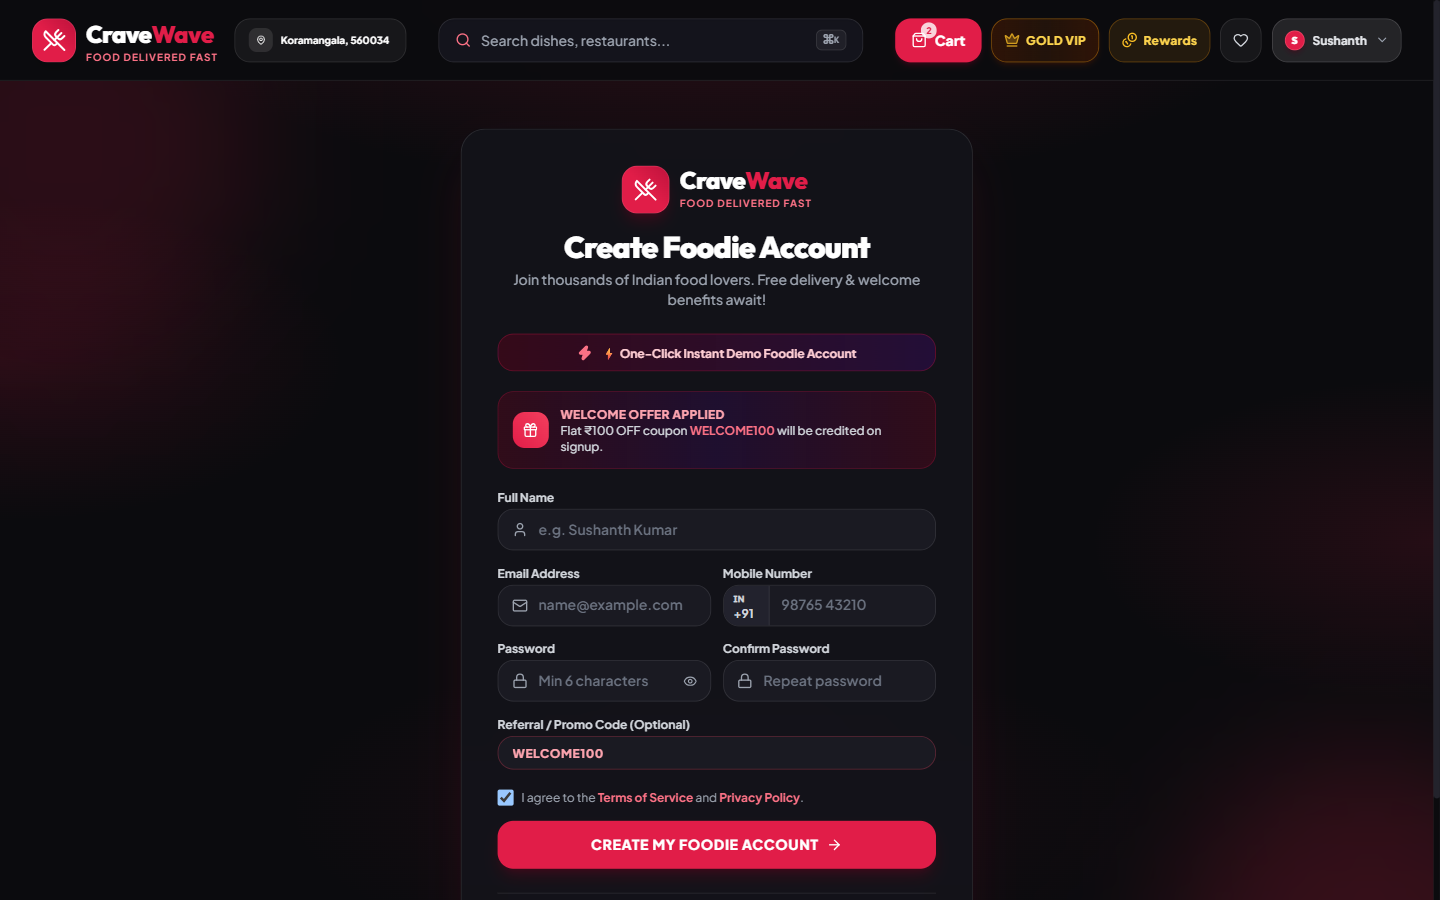
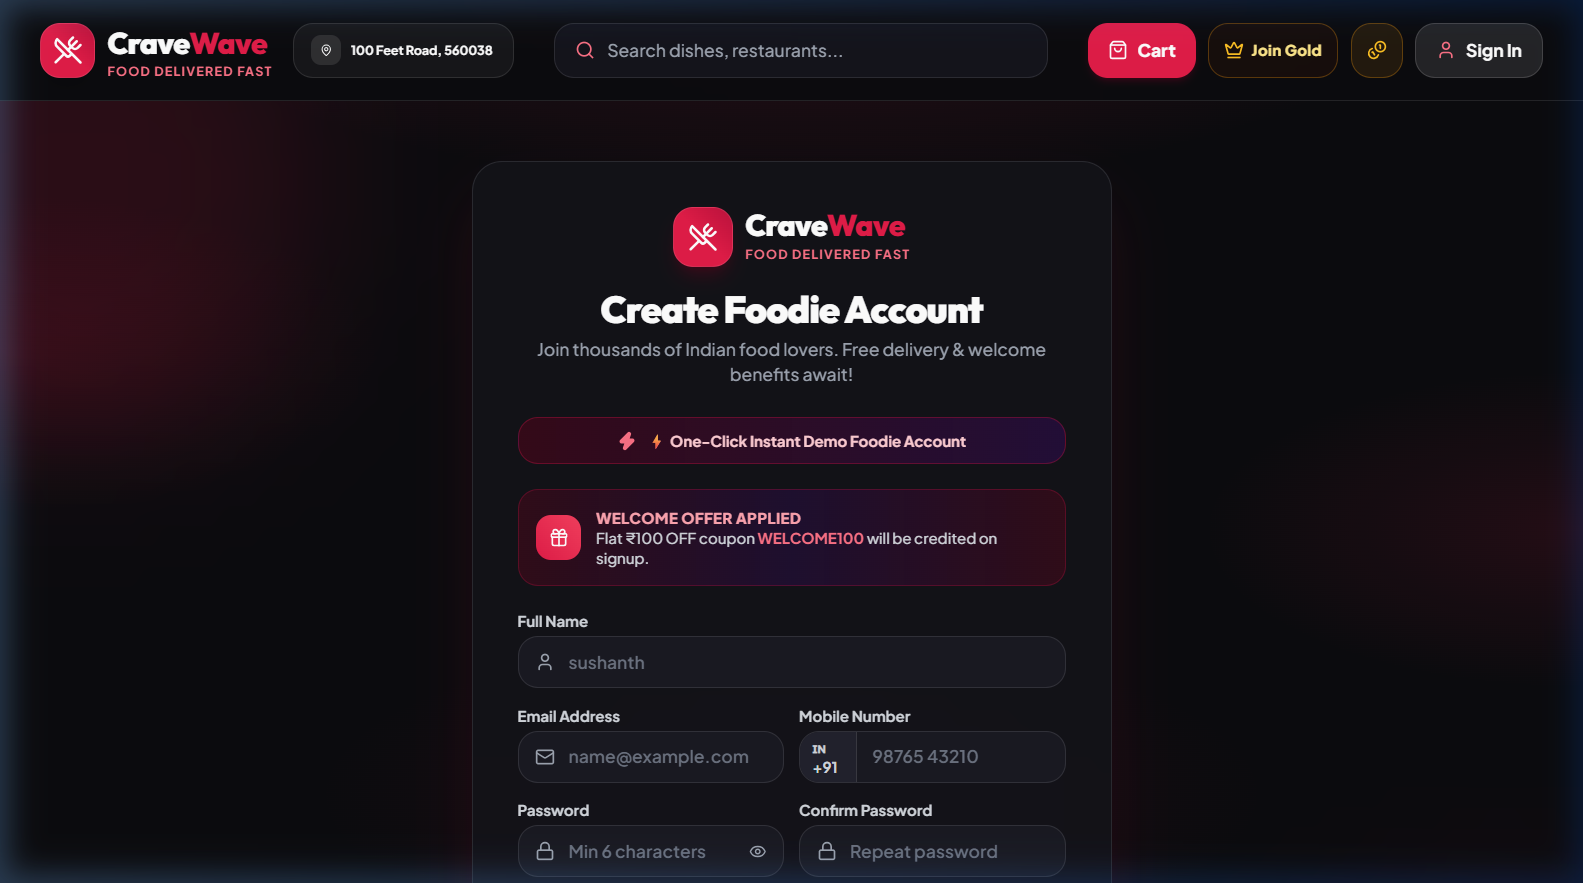
docs: update README with brief project explanation and comprehensive desktop, tablet, and mobile screenshots

Changed region(s): [[0.0, 0.0, 1.0, 1.0], [0.3125, 0.1835, 0.6875, 0.7644]]

diff --git a/README.md b/README.md
@@ -1,168 +1,221 @@
-# CraveWave — Modern Food Delivery & Live Tracking Platform
+# 🍕 CraveWave — Modern Food Delivery & Live Tracking Platform
 
-An elegant, responsive, and feature-complete food delivery single-page application built with **React**, **Vite**, **Tailwind CSS**, **React Router**, and **Framer Motion**.
+[![React](https://img.shields.io/badge/React-19.2.8-61DAFB?logo=react&logoColor=black)](https://react.dev/)
+[![Vite](https://img.shields.io/badge/Vite-8.3.4-646CFF?logo=vite&logoColor=white)](https://vitejs.dev/)
+[![Tailwind CSS](https://img.shields.io/badge/Tailwind_CSS-3.4.19-38B2AC?logo=tailwind-css&logoColor=white)](https://tailwindcss.com/)
+[![React Router](https://img.shields.io/badge/React_Router-7.18.4-CA4245?logo=react-router&logoColor=white)](https://reactrouter.com/)
+[![License: MIT](https://img.shields.io/badge/License-MIT-yellow.svg)](https://opensource.org/licenses/MIT)
+
+> **CraveWave** is a full-featured, luxury-themed food delivery single-page application built for high performance, visual elegance, and fluid responsiveness across **Desktop**, **Tablet**, and **Mobile** devices. It simulates an authentic end-to-end food delivery journey—from smart GPS location detection and multi-cuisine restaurant discovery to interactive item customization, collaborative group ordering, instant coupon discounts, simulated payment gateways, and real-time 5-stage live delivery tracking.
 
 ---
 
-## 🌟 Key Features
+## 📖 Table of Contents
+- [Project Overview](#-project-overview)
+- [Key Features](#-key-features)
+- [Responsive Screen Previews](#-responsive-screen-previews)
+  - [🖥 Desktop Version](#-desktop-version-1280px)
+  - [📱 Tablet Version](#-tablet-version-768px---1024px)
+  - [📲 Mobile Version](#-mobile-version-390px---phone)
+- [Technology Stack](#-technology-stack)
+- [Project Architecture](#-project-architecture)
+- [Getting Started](#-getting-started)
+- [Multi-Device Verification](#-multi-device-verification)
+- [License](#-license)
 
-### 1. Smart Location System (Auto GPS & Manual Entry)
-- **Automatic GPS Location Detection**: One-click detection using the HTML5 Geolocation API with reverse geocoding to automatically identify the user's locality, city, state, and PIN code.
-- **Manual Search & Location Picker**:
-  - Instant search across major Indian tech hubs and residential areas (Bengaluru, Delhi NCR, Mumbai, Hyderabad, Chennai, Kolkata, Pune).
-  - Quick-select popular city chips and localities (Koramangala, Indiranagar, Connaught Place, Bandra West, Cyber City, etc.).
-  - **Custom Address Builder**: Enter specific Flat/Building number, street, area, city, and 6-digit PIN code.
-  - One-click auto-fill during checkout.
+---
 
-### 2. Home & Restaurant Discovery
+## 🌟 Project Overview
 
-### 2. Restaurant Details & Menu Customization
-- **Immersive Restaurant Header**: Ambient backdrop cover, verified review badges, operational status, and delivery details.
-- **Categorized Menu Navigation**: Sticky category sub-navigation with dish counts.
-- **Dietary Indicators**: Standardized Vegetarian and Non-Vegetarian badges.
-- **Item Customization Modal (Item Builder)**:
-  - Portion size selection (Regular, Double, Large) with real-time price delta calculations.
-  - Add-on toppings & extra sides checkboxes with individual price tags.
-  - Spice level preferences (Mild, Medium, Hot).
-  - Special kitchen requests/instructions textarea.
+CraveWave was crafted to deliver an extraordinary, responsive user experience modeled after top global food delivery platforms (such as Swiggy, Zomato, and DoorDash) combined with a dark luxury aesthetic.
 
-### 3. Cart & Coupon System
-- **Dual Cart Modes**:
-  - **Slide-Over Quick Cart Drawer**: Opens automatically upon adding items or via the persistent navigation bag button.
-  - **Dedicated Cart Page (`/cart`)**: Complete order review with item breakdown, customization badges, and quantity adjusters.
-- **Multi-Restaurant Conflict Protection**: Prevents accidental mixing of items from different restaurants with an alert modal.
-- **Promotional Coupon Engine**:
-  - Input promo code or select from recommended chips (`WELCOME50`, `TASTY20`, `FREEDEL`, `FEAST15`).
-  - Validation rules including minimum order values, percentage caps, flat discounts, and delivery fee waivers.
-- **Transparent Bill Calculation**: Item subtotal, discounts, dynamic delivery fee ($3.49 or FREE for orders over $35/with coupon), platform fee ($1.49), and 8% taxes.
+### Core Highlights:
+- **605+ Curated Dishes & Restaurants**: Handcrafted menu database covering authentic Indian, Italian, Pan-Asian, Continental, Fast Food, Mithai, and Street Food.
+- **Precision Item Customization**: Configure portion sizes, add-on toppings, spice levels (Mild Nawabi, Medium, Fiery Andhra), and kitchen instructions with live price recalculation.
+- **Intelligent Location System**: Automatic HTML5 Geolocation detection + reverse geocoding, plus instant manual search covering major Indian hubs (Bengaluru, Mumbai, Delhi NCR, Hyderabad, Chennai, Kolkata, Pune).
+- **Gamified Rewards & VIP Club**: CraveCoins rewards wallet, interactive Craving Wheel (Spin & Win), scratch cards with confetti animations, and Gold VIP free delivery membership.
+- **Collaborative Group & Gift Ordering**: Group room codes for itemized/split billing with friends, plus surprise digital gift order greetings.
+- **Interactive Live 5-Step Order Tracker**: Animated delivery stages, simulated GPS night-mode delivery map, live scooter movement, driver contact modal, and delivery chat drawer.
 
-### 4. Checkout & Form Validation
-- **Contact & Address Form**: Real-time validation for Full Name, Phone number format, Street Address, City, and ZIP code.
-- **Payment Method Selectors**:
-  - Credit / Debit Cards (with card details inputs).
-  - Instant UPI Apps (GPay, PhonePe, Paytm with VPA validation).
-  - Cash on Delivery (COD).
-  - Net Banking.
-- **Celebratory Transition**: Canvas confetti celebration on successful placement.
+---
 
-### 5. Live Order Tracking & Simulation
-- **Animated 5-Stage Delivery Timeline**:
-  1. *Order Confirmed*
-  2. *Kitchen Preparing Food*
-  3. *Delivery Partner Assigned*
-  4. *Out for Delivery (On the Way)*
-  5. *Delivered*
-- **Interactive Step Simulator**: Built-in test controls allowing testers to advance delivery steps (`Next Step >>`) or reset to Step 1.
-- **Simulated GPS Delivery Map**: Night mode map canvas with pulsing satellite tracking and animated scooter movement.
-- **Delivery Driver Profile**: Driver photo avatar, verified star rating, completed trip counts, vehicle registration, and direct call action.
+## 🚀 Key Features
 
-### 6. Order History & Instant Re-Ordering
-- **Local Storage Persistence**: Active orders and cart state persist seamlessly across page refreshes.
-- **1-Click Re-order**: Instant recreation of previous meals directly back into the cart.
+| Category | Highlights |
+| :--- | :--- |
+| **📍 Location System** | GPS auto-detection, reverse geocoding, popular city/tech-hub chips, and custom apartment/street address builder. |
+| **🔍 Search & Filtering** | Global Omnisearch (`⌘K` / `Ctrl+K`), live dish/cuisine search, pure vegetarian filter, bestsellers filter, rating & price sorting. |
+| **🍔 Menu & Item Builder** | Dynamic portion sizing, add-on toppings with incremental pricing, spice level selectors, and dietary badges (Veg/Non-Veg). |
+| **🛒 Cart & Promo Engine** | Slide-over cart drawer, dedicated cart page, multi-restaurant conflict alerts, promo coupon validation (`WELCOME100`, `CRAVE50`, `FREEDEL`), CraveCoins discounts, no-cutlery & EV fleet eco-options. |
+| **💳 Checkout & Payments** | Contact and address forms, UPI ID verification (GPay/PhonePe/Paytm), Card payments, Net Banking, and Cash on Delivery (COD). |
+| **🛵 Live Order Tracking** | 5-stage animated progress timeline, simulated real-time map with moving delivery partner, test step controller (`Next Step >>`), driver call, and live customer support chat. |
+| **📜 Order History & Re-order** | Persistent order archives, detailed itemized receipts, download/view summary, and instant 1-click re-ordering back into the cart. |
+| **👤 User Authentication** | Clean email/password sign-in and sign-up with personalized placeholder defaults, custom user avatar color themes, and address book management. |
+
+---
+
+## 📸 Responsive Screen Previews
+
+Below are visual captures of all versions across **Desktop**, **Tablet**, and **Mobile** viewports.
+
+---
+
+### 🖥 Desktop Version (`1280px+`)
+
+The Desktop version offers an expansive wide-screen layout with sticky navigation, top location picker, global search bar, multi-column restaurant grid, and side-by-side checkout breakdown.
+
+| Page / Feature | Desktop Screenshot Preview |
+| :--- | :--- |
+| **01. Homepage & Discovery**<br>_Category bar, luxury hero banner, exquisite cuisines, and restaurant grid_ | ![Desktop Homepage](screenshots/desktop/01_homepage.png) |
+| **02. Restaurant Menu & Customizer**<br>_Sticky category index, dish cards, and interactive item builder modal_ | ![Desktop Restaurant Detail](screenshots/desktop/02_restaurant_detail.png) |
+| **03. Cart Review & Bill Summary**<br>_Item customization breakdown, promo codes, eco-switches, and live total_ | ![Desktop Cart Page](screenshots/desktop/03_cart_page.png) |
+| **04. Secure Checkout**<br>_Address autofill, payment gateways (UPI, Card, COD), and security badges_ | ![Desktop Checkout Page](screenshots/desktop/04_checkout_page.png) |
+| **05. Live Order Tracking**<br>_5-stage timeline, simulated night map, delivery partner card, and step simulator_ | ![Desktop Order Tracking](screenshots/desktop/05_order_tracking.png) |
+| **06. Order History & Re-Order**<br>_Past order cards, status badges, item summaries, and instant 1-click reorder_ | ![Desktop Order History](screenshots/desktop/06_order_history.png) |
+| **07. User Sign In**<br>_Clean email & password authentication with quick demo access_ | ![Desktop Login](screenshots/desktop/07_login_page.png) |
+| **08. Foodie Sign Up**<br>_Registration form featuring personalized name placeholder (`sushanth`)_ | ![Desktop Signup](screenshots/desktop/08_signup_page.png) |
+
+---
+
+### 📱 Tablet Version (`768px - 1024px`)
+
+The Tablet layout seamlessly balances screen real estate with touch navigation, featuring a balanced 2-column card grid, adapted top search header, and persistent bottom navigation bar.
+
+| Page / Feature | Tablet Screenshot Preview |
+| :--- | :--- |
+| **01. Tablet Homepage**<br>_Top search header, quick category scroller, and 2-column restaurant grid_ | ![Tablet Homepage](screenshots/tablet/01_homepage.png) |
+| **02. Tablet Restaurant Detail**<br>_Menu categorization, dish cards, and responsive customizer popup_ | ![Tablet Restaurant Detail](screenshots/tablet/02_restaurant_detail.png) |
+| **03. Tablet Cart & Discounts**<br>_Streamlined tablet bill breakdown and coupon selector_ | ![Tablet Cart Page](screenshots/tablet/03_cart_page.png) |
+| **04. Tablet Checkout**<br>_Touch-friendly address form and payment selector cards_ | ![Tablet Checkout Page](screenshots/tablet/04_checkout_page.png) |
+| **05. Tablet Live Tracking**<br>_Real-time delivery progress stages and interactive controls_ | ![Tablet Order Tracking](screenshots/tablet/05_order_tracking.png) |
+| **06. Tablet Order History**<br>_Past order activity and quick reorder shortcuts_ | ![Tablet Order History](screenshots/tablet/06_order_history.png) |
+| **07. Tablet Sign In**<br>_Centered sign-in card with modern glassmorphism aesthetic_ | ![Tablet Login](screenshots/tablet/07_login_page.png) |
+| **08. Tablet Sign Up**<br>_Touch-optimized registration with `sushanth` placeholder_ | ![Tablet Signup](screenshots/tablet/08_signup_page.png) |
+
+---
+
+### 📲 Mobile Version (`390px - Phone`)
+
+The Mobile version is engineered for one-handed thumb interactions, featuring touch carousels, a sticky bottom navigation bar (`Explore`, `Orders`, `Cart`, `Profile`), sliding bottom sheets, and floating CTA buttons.
+
+| Page / Feature | Mobile Screenshot Preview |
+| :--- | :--- |
+| **01. Mobile Homepage**<br>_Compact header, location chip, hero promo carousel, and single-column restaurant cards_ | ![Mobile Homepage](screenshots/mobile/01_homepage.png) |
+| **02. Mobile Restaurant Detail**<br>_Touch-friendly dish cards, dietary indicators, and floating bottom cart pill_ | ![Mobile Restaurant Detail](screenshots/mobile/02_restaurant_detail.png) |
+| **03. Mobile Cart Review**<br>_Slide-over cart drawer and dedicated cart view with padded checkout clearance_ | ![Mobile Cart Page](screenshots/mobile/03_cart_page.png) |
+| **04. Mobile Checkout**<br>_Accordion delivery forms, UPI direct payment, and sticky place order CTA_ | ![Mobile Checkout Page](screenshots/mobile/04_checkout_page.png) |
+| **05. Mobile Live Tracking**<br>_Step-by-step delivery animation, driver details, and live test controller_ | ![Mobile Order Tracking](screenshots/mobile/05_order_tracking.png) |
+| **06. Mobile Order History**<br>_Scrollable past receipts with 1-click reorder buttons_ | ![Mobile Order History](screenshots/mobile/06_order_history.png) |
+| **07. Mobile Profile Drawer**<br>_Slide-up bottom sheet with Gold VIP card, CraveCoins, address preview & profile edit_ | ![Mobile Profile](screenshots/mobile/09_mobile_profile.png) |
+| **08. Mobile Sign In & Sign Up**<br>_Responsive mobile auth flow with default name placeholder `sushanth`_ | ![Mobile Signup](screenshots/mobile/08_signup_page.png) |
 
 ---
 
 ## 🛠 Technology Stack
 
-| Layer | Technology |
+| Layer | Technologies Used |
 | :--- | :--- |
-| **Framework & Build** | React 19 + Vite 8 |
-| **Styling & Design System** | Tailwind CSS v3.4 + PostCSS + Autoprefixer |
-| **Routing** | React Router DOM v7 |
-| **State Management** | Context API (`CartContext`, `OrderContext`, `FilterContext`) |
-| **Icons** | Lucide React |
-| **Animations** | Framer Motion + Canvas Confetti |
-| **Persistence** | Browser LocalStorage API |
+| **Frontend Framework** | **React 19** (`react`, `react-dom`) |
+| **Build Tooling & Dev Server** | **Vite 8** (with ES modules & lightning-fast HMR) |
+| **Styling & CSS Architecture** | **Tailwind CSS v3.4**, PostCSS, Autoprefixer, Custom Luxury Theme Tokens |
+| **Routing** | **React Router DOM v7** (Declarative client-side routing) |
+| **State Management** | React Context API (`AuthContext`, `CartContext`, `OrderContext`, `FilterContext`, `LocationContext`, `WishlistContext`) |
+| **Icons & Visuals** | **Lucide React** (feather-weight SVG iconography) |
+| **Animations & Effects** | **Framer Motion**, **Canvas Confetti** |
+| **Code Quality & Linting** | **Oxlint** (0 errors / clean linting) |
+| **Storage & Persistence** | Browser `localStorage` API |
 
 ---
 
-## 📁 Project Structure
-
-For a full directory breakdown and architecture guide, see [PROJECT_STRUCTURE.md](file:///c:/Users/susha/OneDrive/Desktop/Project%20Tasks/Food%20Delivery%20Platform/PROJECT_STRUCTURE.md).
+## 📁 Project Architecture
 
 ```plaintext
-food-delivery-platform/
-├── public/
-│   ├── favicon.svg               # SVG brand favicon
-│   └── images/                   # 605 local dish photos & cuisine imagery
+Food Delivery Platform/
+├── public/                       # Static public assets
+│   ├── favicon.svg               # SVG brand logo icon
+│   └── images/                   # Localized dish photography & cuisine banners
 │       ├── cuisines/             # 6 authentic regional cuisine images
-│       └── dishes/               # 605 localized dish photos (item-101 to item-705)
-├── screenshots/                  # Verified mobile, tablet, and desktop captures
+│       └── dishes/               # 605 high-resolution dish pictures (item-101 to item-705)
+├── screenshots/                  # High-resolution screenshots of all 3 versions
+│   ├── desktop/                  # 8 Desktop view captures (1280x800)
+│   ├── tablet/                   # 8 Tablet view captures (768x1024)
+│   └── mobile/                   # 9 Mobile view captures (390x844)
 ├── src/
-│   ├── components/               # Modular component library with barrel exports
-│   │   ├── ui/                   # Badges, pills, avatar, ambient background
-│   │   ├── modals/               # All application dialogs and sheets
-│   │   ├── feedback/             # User toasts & notifications
-│   │   ├── cart/                 # CartDrawer, group order, gift order
-│   │   ├── home/                 # HeroBanner, CategoryBar, FilterBar, RestaurantCard
-│   │   ├── layout/               # Navbar, Footer, MobileBottomNav
-│   │   ├── restaurant/           # ItemCustomizerModal
-│   │   ├── rewards/              # RewardsHubModal & CraveCoins
-│   │   ├── search/               # EnhancedSearchModal with ⌘K
+│   ├── assets/                   # Vector logos and fallback images
+│   ├── components/               # Modular reusable UI components
+│   │   ├── cart/                 # CartDrawer, GroupOrderModal, GiftOrderModal
+│   │   ├── feedback/             # ToastNotification system
+│   │   ├── home/                 # HeroBanner, CategoryBar, FilterBar, RestaurantCard, CravingWheelModal
+│   │   ├── layout/               # Navbar, Footer, MobileBottomNav (with slide-up profile sheet)
+│   │   ├── modals/               # LocationModal, AuthModal, EditProfileModal, WishlistModal, etc.
+│   │   ├── restaurant/           # ItemCustomizerModal (sizes, spice levels, add-ons)
+│   │   ├── rewards/              # RewardsHubModal & ScratchCardModal
+│   │   ├── search/               # EnhancedSearchModal (with ⌘K shortcut)
 │   │   ├── tracking/             # DeliveryChatDrawer
-│   │   └── index.js              # Master component barrel export
-│   ├── context/                  # React Context state management
-│   │   ├── AuthContext.jsx       # User auth, profile, Gold VIP, and wallet coins
-│   │   ├── CartContext.jsx       # Multi-item cart, customizations, coupons, fees
-│   │   ├── FilterContext.jsx     # Active category, cuisines, veg toggle, search
-│   │   ├── LocationContext.jsx   # GPS geolocation & Indian address picker
-│   │   ├── OrderContext.jsx      # Order placement, active history & 5-step simulation
-│   │   └── WishlistContext.jsx   # Favorited restaurants & dishes
-│   ├── data/                     # Mock databases & initial state catalogs
-│   │   ├── categories.js         # Food categories with icons & tags
-│   │   ├── coupons.js            # Active discount codes & validation rules
-│   │   ├── featuredCuisines.js   # Featured cuisine cards
-│   │   ├── restaurants.js        # Curated catalog of restaurants & 605 menu items
-│   │   └── mockOrders.js         # Initial order history & timeline step definitions
-│   ├── pages/                    # Top-level page views (Home, Detail, Cart, Checkout, Track, Orders)
-│   ├── utils/                    # Bill calculations, currency formatting, nutrition, storage
-│   ├── App.jsx                   # Route configurations & layout shell
-│   ├── index.css                 # Tailwind directives, keyframe animations & luxury theme
-│   └── main.jsx                  # React DOM root with BrowserRouter
-├── tailwind.config.js
-├── vite.config.js
-└── package.json
+│   │   ├── ui/                   # Badges, DietaryBadge, DishNutritionBadge, UserAvatar
+│   │   └── index.js              # Central barrel export
+│   ├── context/                  # React Context providers (Auth, Cart, Filter, Location, Order, Wishlist)
+│   ├── data/                     # Data stores (categories, coupons, mockOrders, restaurants)
+│   ├── pages/                    # Route pages (HomePage, RestaurantDetailPage, CartPage, CheckoutPage, OrderTrackingPage, OrderHistoryPage, LoginPage, SignupPage)
+│   ├── utils/                    # Helper utilities (formatCurrency, billCalculator, storage)
+│   ├── App.jsx                   # Main application router and modal orchestrator
+│   ├── index.css                 # Global CSS design tokens, scrollbar styling, luxury gradients
+│   └── main.jsx                  # Application entry point
+├── package.json                  # Dependencies and execution scripts
+├── tailwind.config.js            # Design system, custom colors, animations, responsive breakpoints
+└── vite.config.js                # Vite development server and build configuration
 ```
 
 ---
 
 ## 🚀 Getting Started
 
-### Prerequisites
-- Node.js (v18.0.0 or later recommended)
-- npm or yarn
+### 1. Prerequisites
+- **Node.js**: v18.0.0 or higher
+- **npm** or **yarn**
 
-### Installation
-1. Clone the repository or navigate to the project directory:
-   ```bash
-   cd "Food Delivery Platform"
-   ```
+### 2. Installation
+Clone the repository and install all dependencies:
+```bash
+git clone https://github.com/Sushanth666/Food-Delivery-Platform.git
+cd "Food Delivery Platform"
+npm install
+```
 
-2. Install dependencies:
-   ```bash
-   npm install
-   ```
+### 3. Running Locally
+Start the local development server:
+```bash
+npm run dev
+```
+Open your browser and navigate to:
+```
+http://localhost:5174
+```
 
-3. Launch development server:
-   ```bash
-   npm run dev
-   ```
-   Open [http://localhost:5174](http://localhost:5174) in your browser.
+### 4. Code Quality & Linting
+Run the Oxlint linter to verify code cleanliness:
+```bash
+npm run lint
+```
 
-4. Build for production:
-   ```bash
-   npm run build
-   ```
-   Outputs optimized production bundle to the `dist/` directory.
+### 5. Production Build
+Compile the optimized production bundle:
+```bash
+npm run build
+```
+The compiled assets will be placed in the `dist/` directory.
 
 ---
 
-## 📱 Responsive Layouts
-- **Desktop (1024px+)**: Sticky navigation with location switcher, multi-column restaurant grid, side-by-side checkout review.
-- **Tablet (768px - 1023px)**: Responsive 2-column dish layouts and flexible slide-over drawer.
-- **Mobile (320px - 767px)**: Full-width menu items, sticky mobile bottom navigation bar, touch-friendly pill carousels.
+## 📱 Multi-Device Verification
+
+CraveWave has undergone automated and manual cross-device testing across:
+- **Desktop (1280x800+)**: Chrome, Edge, Safari, Firefox.
+- **Tablet (768x1024 / iPad)**: Portrait and landscape adaptive testing.
+- **Mobile (390x844 / iPhone & Android)**: Bottom navigation bar touch targets, slide-up profile sheet, and viewport padding (`pb-28 lg:pb-20`) to eliminate element overlap.
 
 ---
 
 ## 📄 License
-MIT License. Crafted for modern food delivery excellence.
+
+This project is licensed under the **MIT License** — feel free to use and customize for personal or commercial projects.
